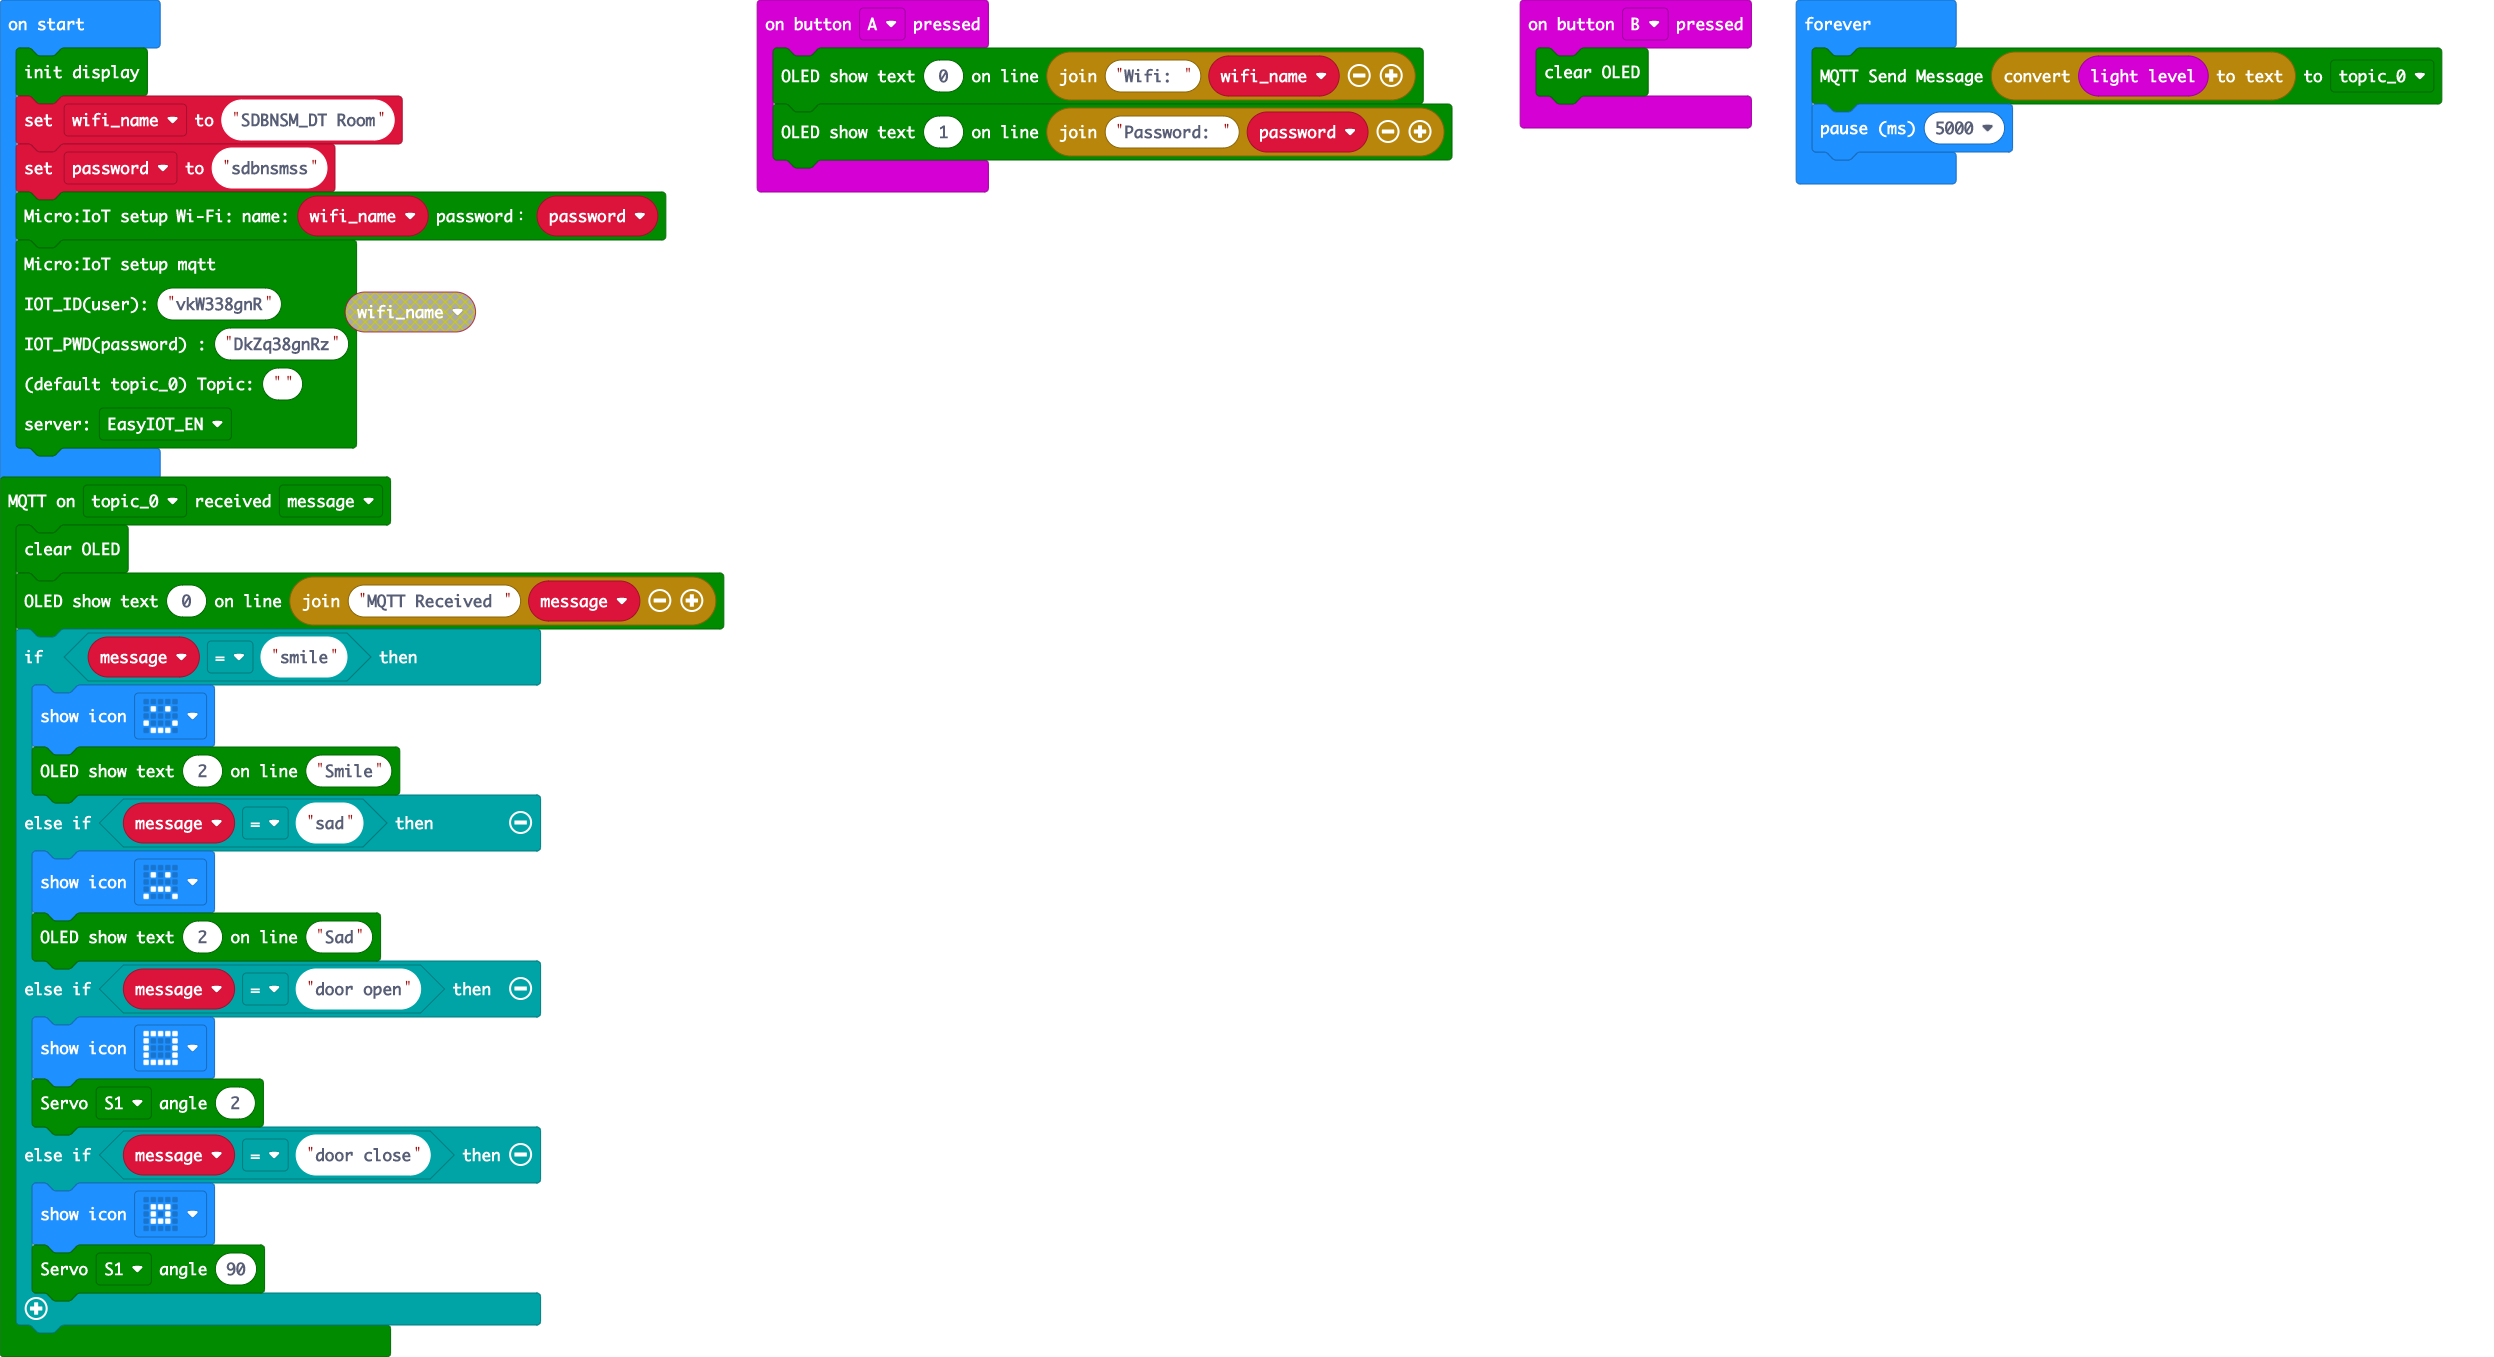
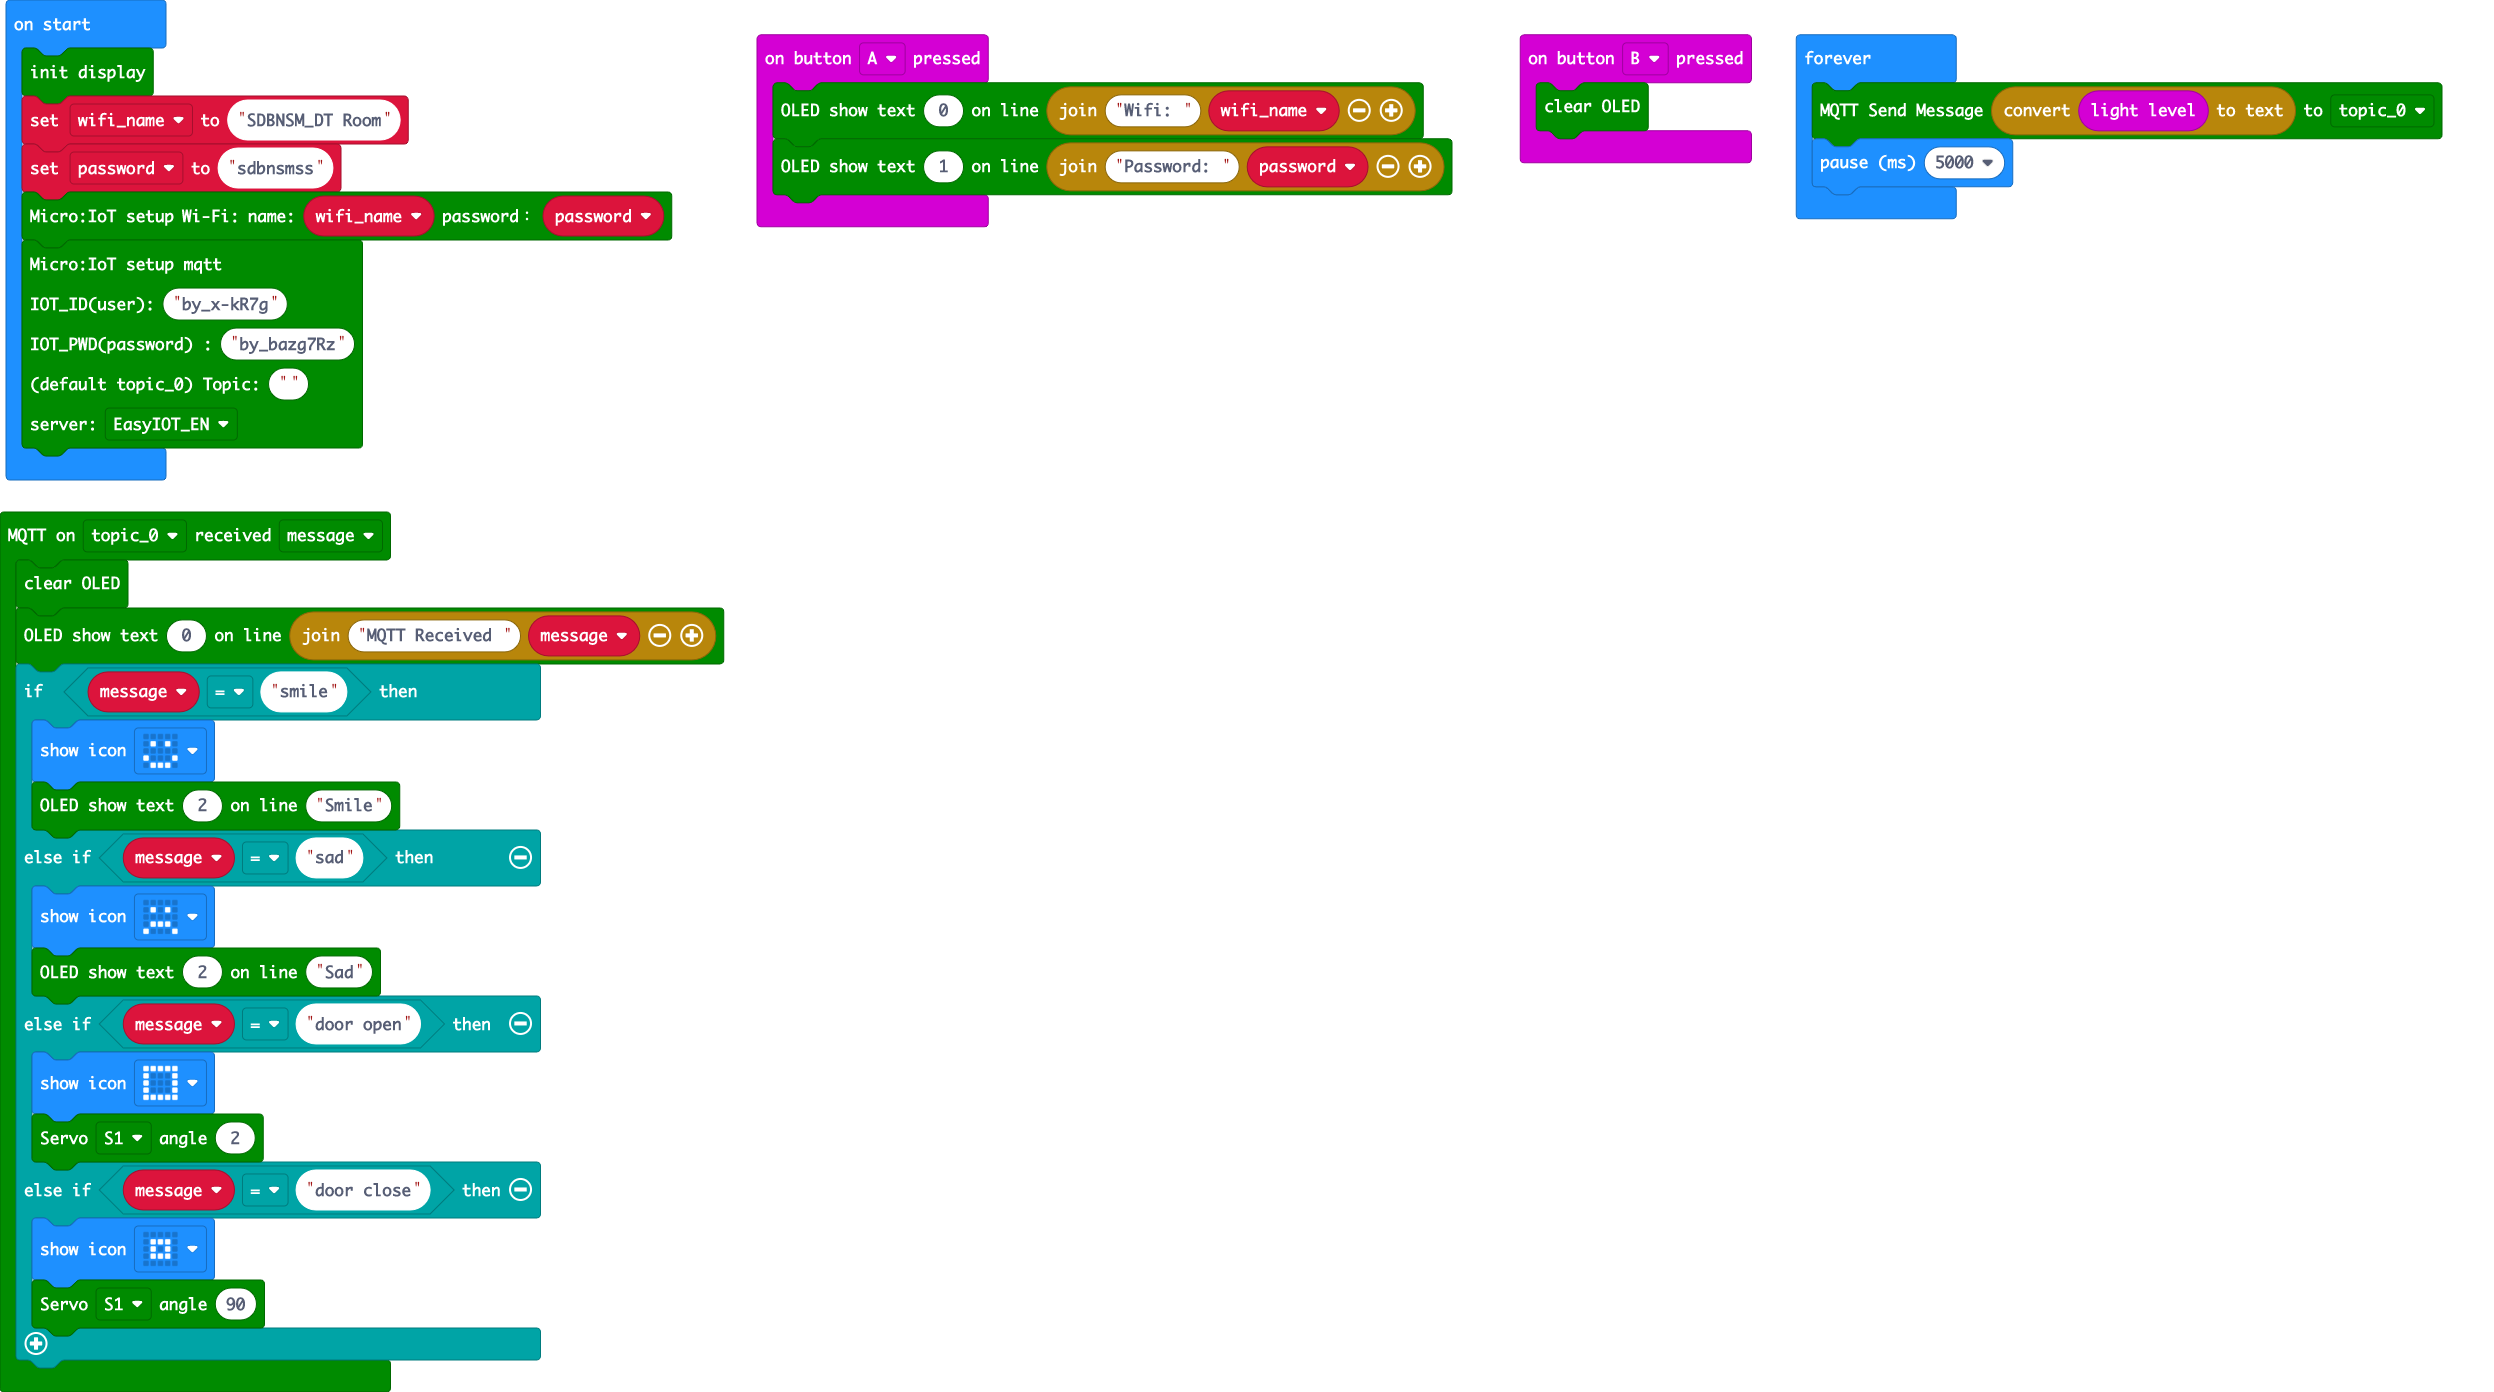
Change EasyIoT IoT_ID & password

Changed region(s): [[0.0, 0.0, 0.3087, 0.9904], [0.2779, 0.0, 0.988, 0.1857]]

diff --git a/main.ts b/main.ts
@@ -29,8 +29,8 @@ wifi_name = "SDBNSM_DT Room"
 password = "sdbnsmss"
 microIoT.microIoT_WIFI(wifi_name, password)
 microIoT.microIoT_MQTT(
-"vkW338gnR",
-"DkZq38gnRz",
+"by_x-kR7g",
+"by_bazg7Rz",
 "",
 microIoT.SERVERS.English
 )
